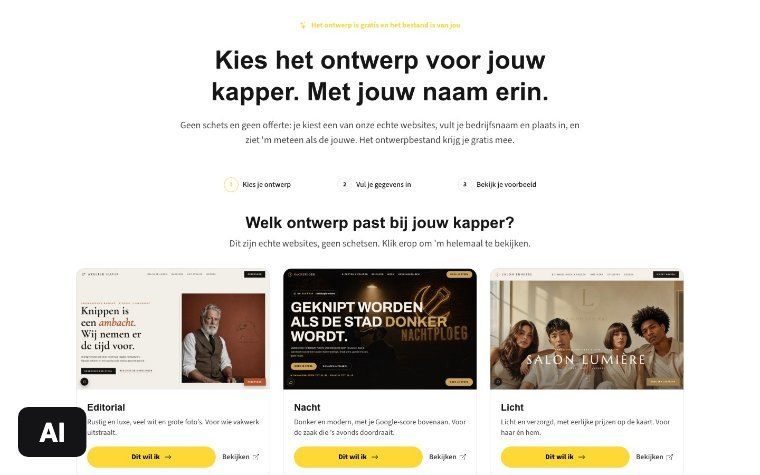
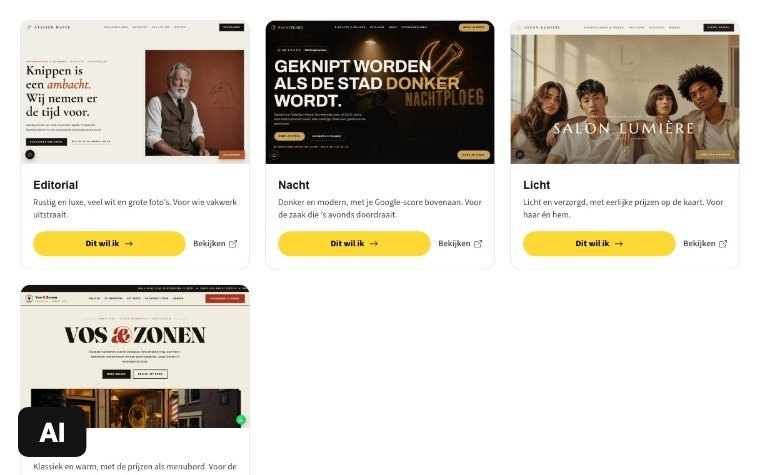
The home grid's hover stickers stand clear of every AI label and title: cards 3, 6, 8 and 10 put theirs at the top right (6 and 8 sat on their own label tile, 3 and 10 on their title); the website tile shows KapperAI's design cards alone, three whole at 1280 and one whole Nacht card on a phone (was 

diff --git a/index.html b/index.html
@@ -1267,13 +1267,14 @@
     .svc-card:hover .svc-sticker{opacity:1;transform:rotate(var(--rot,5deg)) scale(1) translate(var(--tx,0),var(--ty,0))}
     .svc-card:nth-child(1) .svc-sticker{--rot:-8deg;--tx:-20px;--ty:-30px;top:-15px;right:-15px}
     .svc-card:nth-child(2) .svc-sticker{--rot:6deg;--tx:10px;--ty:-25px;top:-10px;right:20px}
-    .svc-card:nth-child(3) .svc-sticker{--rot:-5deg;--tx:15px;--ty:-25px;top:-15px;left:-10px}
+    .svc-card:nth-child(3) .svc-sticker{--rot:-5deg;--tx:-15px;--ty:-25px;top:-15px;right:-15px}
     .svc-card:nth-child(4) .svc-sticker{--rot:10deg;--tx:-15px;--ty:10px;bottom:-10px;right:-15px}
     .svc-card:nth-child(5) .svc-sticker{--rot:-7deg;--tx:0;--ty:-20px;top:5px;right:-25px}
-    .svc-card:nth-child(6) .svc-sticker{--rot:4deg;--tx:10px;--ty:15px;bottom:-5px;left:-10px}
+    .svc-card:nth-child(6) .svc-sticker{--rot:4deg;--tx:-10px;--ty:-25px;top:-10px;right:-15px}
     .svc-card:nth-child(7) .svc-sticker{--rot:-6deg;--tx:-10px;--ty:-25px;top:-15px;right:15px}
-    .svc-card:nth-child(8) .svc-sticker{--rot:8deg;--tx:15px;--ty:10px;bottom:5px;left:-15px}
+    .svc-card:nth-child(8) .svc-sticker{--rot:8deg;--tx:-10px;--ty:-25px;top:-10px;right:15px}
     .svc-card:nth-child(9) .svc-sticker{--rot:-4deg;--tx:-15px;--ty:-20px;top:-10px;right:-20px}
+    .svc-card:nth-child(10) .svc-sticker{--rot:6deg;--tx:-10px;--ty:-30px;top:-15px;right:15px}
     @media(max-width:768px){.services-sticker-grid{grid-template-columns:1fr 1fr}.svc-sticker{display:none!important}}
     </style>
 
